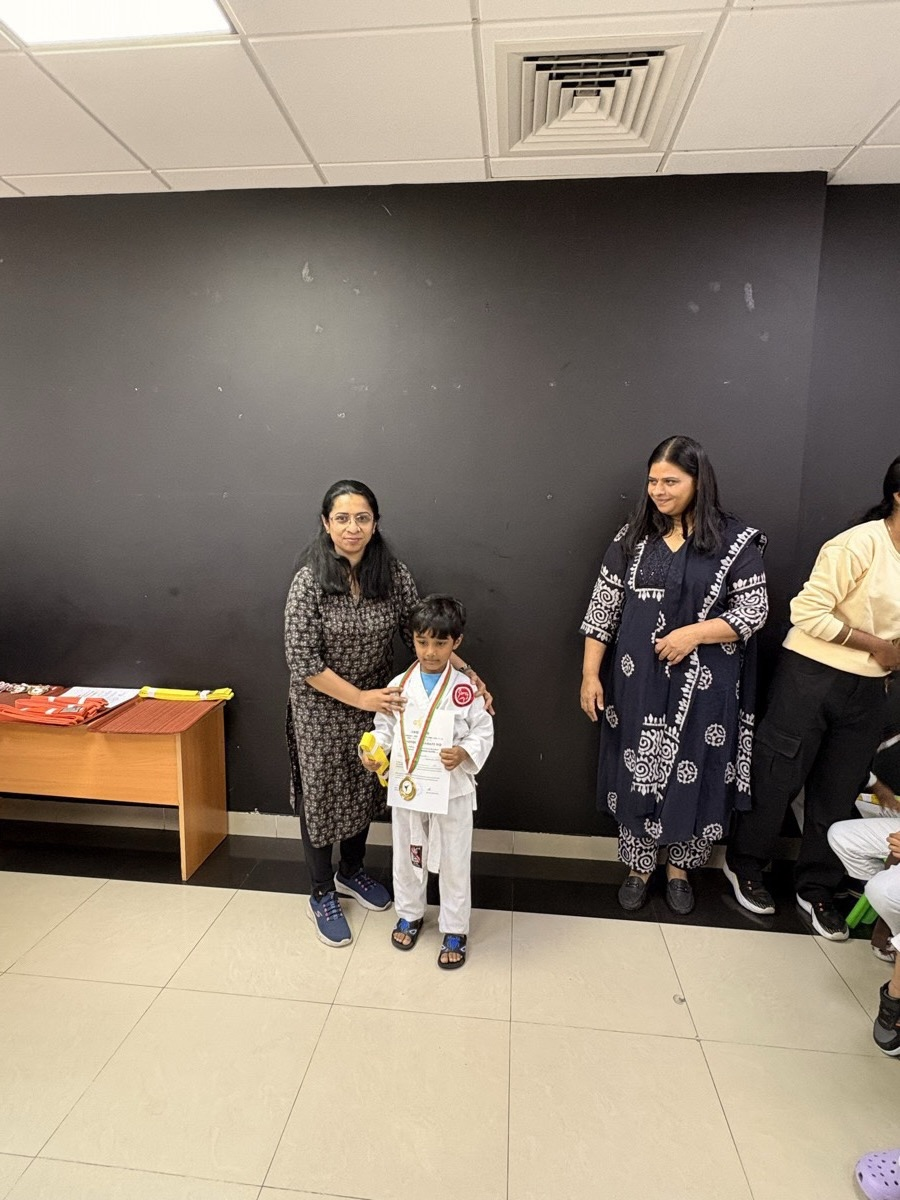
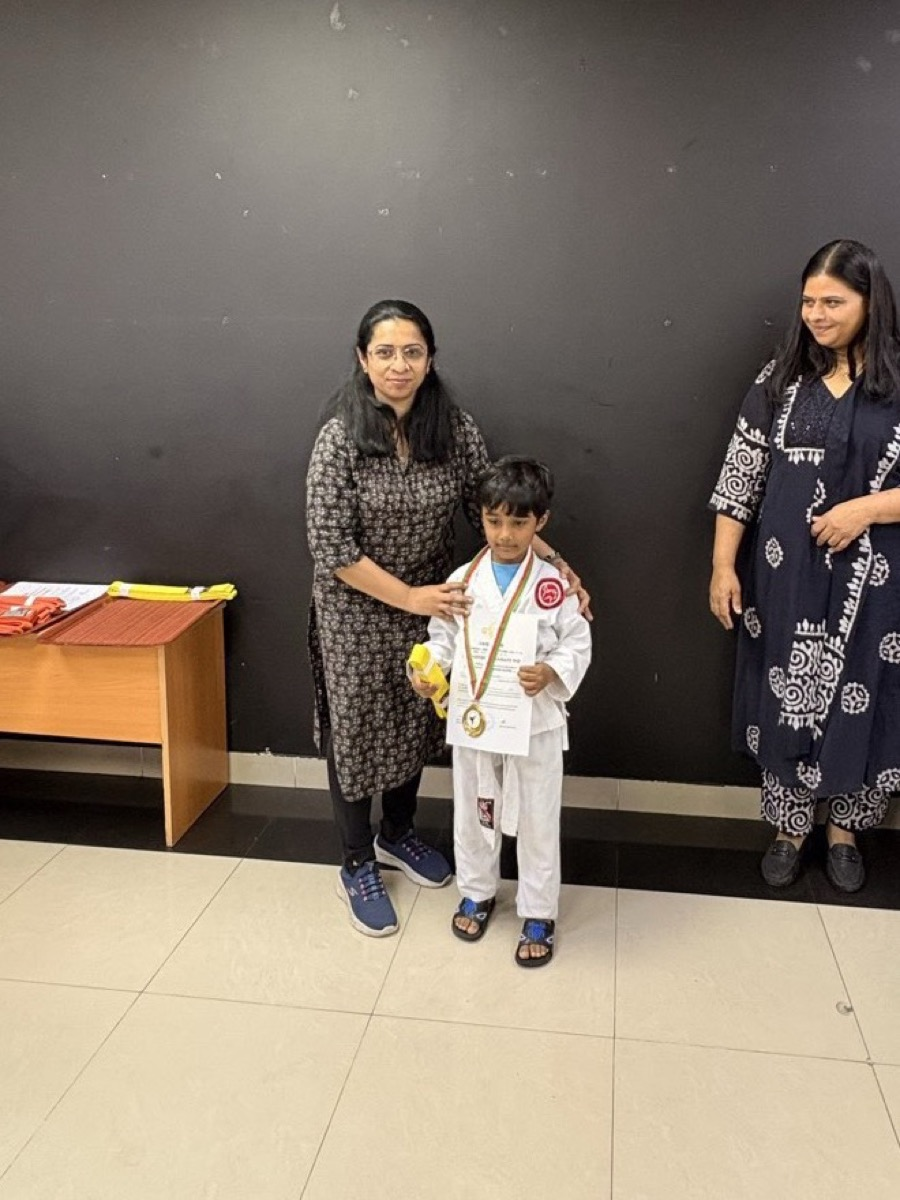
Crop medal photo and clean copy

diff --git a/index.html b/index.html
@@ -59,7 +59,7 @@
       "url": "https://masterdhyanchand.com",
       "image": "https://masterdhyanchand.com/media/images/web/IMG_8519_preview.jpg",
       "knowsAbout": ["Karate", "Shito-Ryu Karate", "Martial Arts"],
-      "award": "Gold Medal — Karate Tournament",
+      "award": "Orange Belt Win — Shito-Ryu Karate",
       "sameAs": []
     },
     {
@@ -84,7 +84,7 @@
         <li><a href="#gallery">Gallery</a></li>
         <li><a href="#videos">Videos</a></li>
         <li><a href="#contact">Contact</a></li>
-        <li><a href="#youtube" class="nav__cta">Subscribe</a></li>
+        <li><a href="#youtube" class="nav__cta">YouTube</a></li>
       </ul>
       <button class="nav__hamburger" id="nav-hamburger" aria-label="Open menu" aria-expanded="false" aria-controls="nav-links">
         <span></span>
@@ -200,8 +200,8 @@
               <br /><br />
               Off the mat he is just as impressive — an endlessly curious kid
               who loves learning, exploring, and taking on every new challenge
-              with a big smile. This website and YouTube channel exist to capture
-              that journey, and to show every young child out there:
+              with a big smile. This website exists to capture that journey,
+              and to show every young child out there:
               <em>your age is never a limit.</em>
             </p>
             <div class="about__tags" data-reveal="3" aria-label="Skills and traits">
@@ -335,7 +335,7 @@
             </div>
             <div class="award">
               <span class="award__icon" aria-hidden="true">🏅</span>
-              <span class="award__label">Gold Medal</span>
+              <span class="award__label">1st Win</span>
             </div>
             <div class="award">
               <span class="award__icon" aria-hidden="true">📜</span>
@@ -478,10 +478,10 @@
             Follow the<br/><em class="accent">Journey</em>
           </h2>
           <p class="yt__body" data-reveal="2">
-            Every kick, every milestone, every proud moment — it all lives
-            on YouTube. Subscribe to follow Dhyanchand's karate journey,
-            watch his training sessions, and be part of a community that
-            believes every child has a champion inside them.
+            Every kick, every milestone, every proud moment deserves a place
+            to live. The YouTube channel is being prepared to share
+            Dhyanchand's karate journey, training sessions, and the small
+            moments that make the story special.
           </p>
           <div data-reveal="3">
             <span class="yt__btn yt__btn--disabled" aria-label="Master Dhyanchand YouTube channel coming soon">
